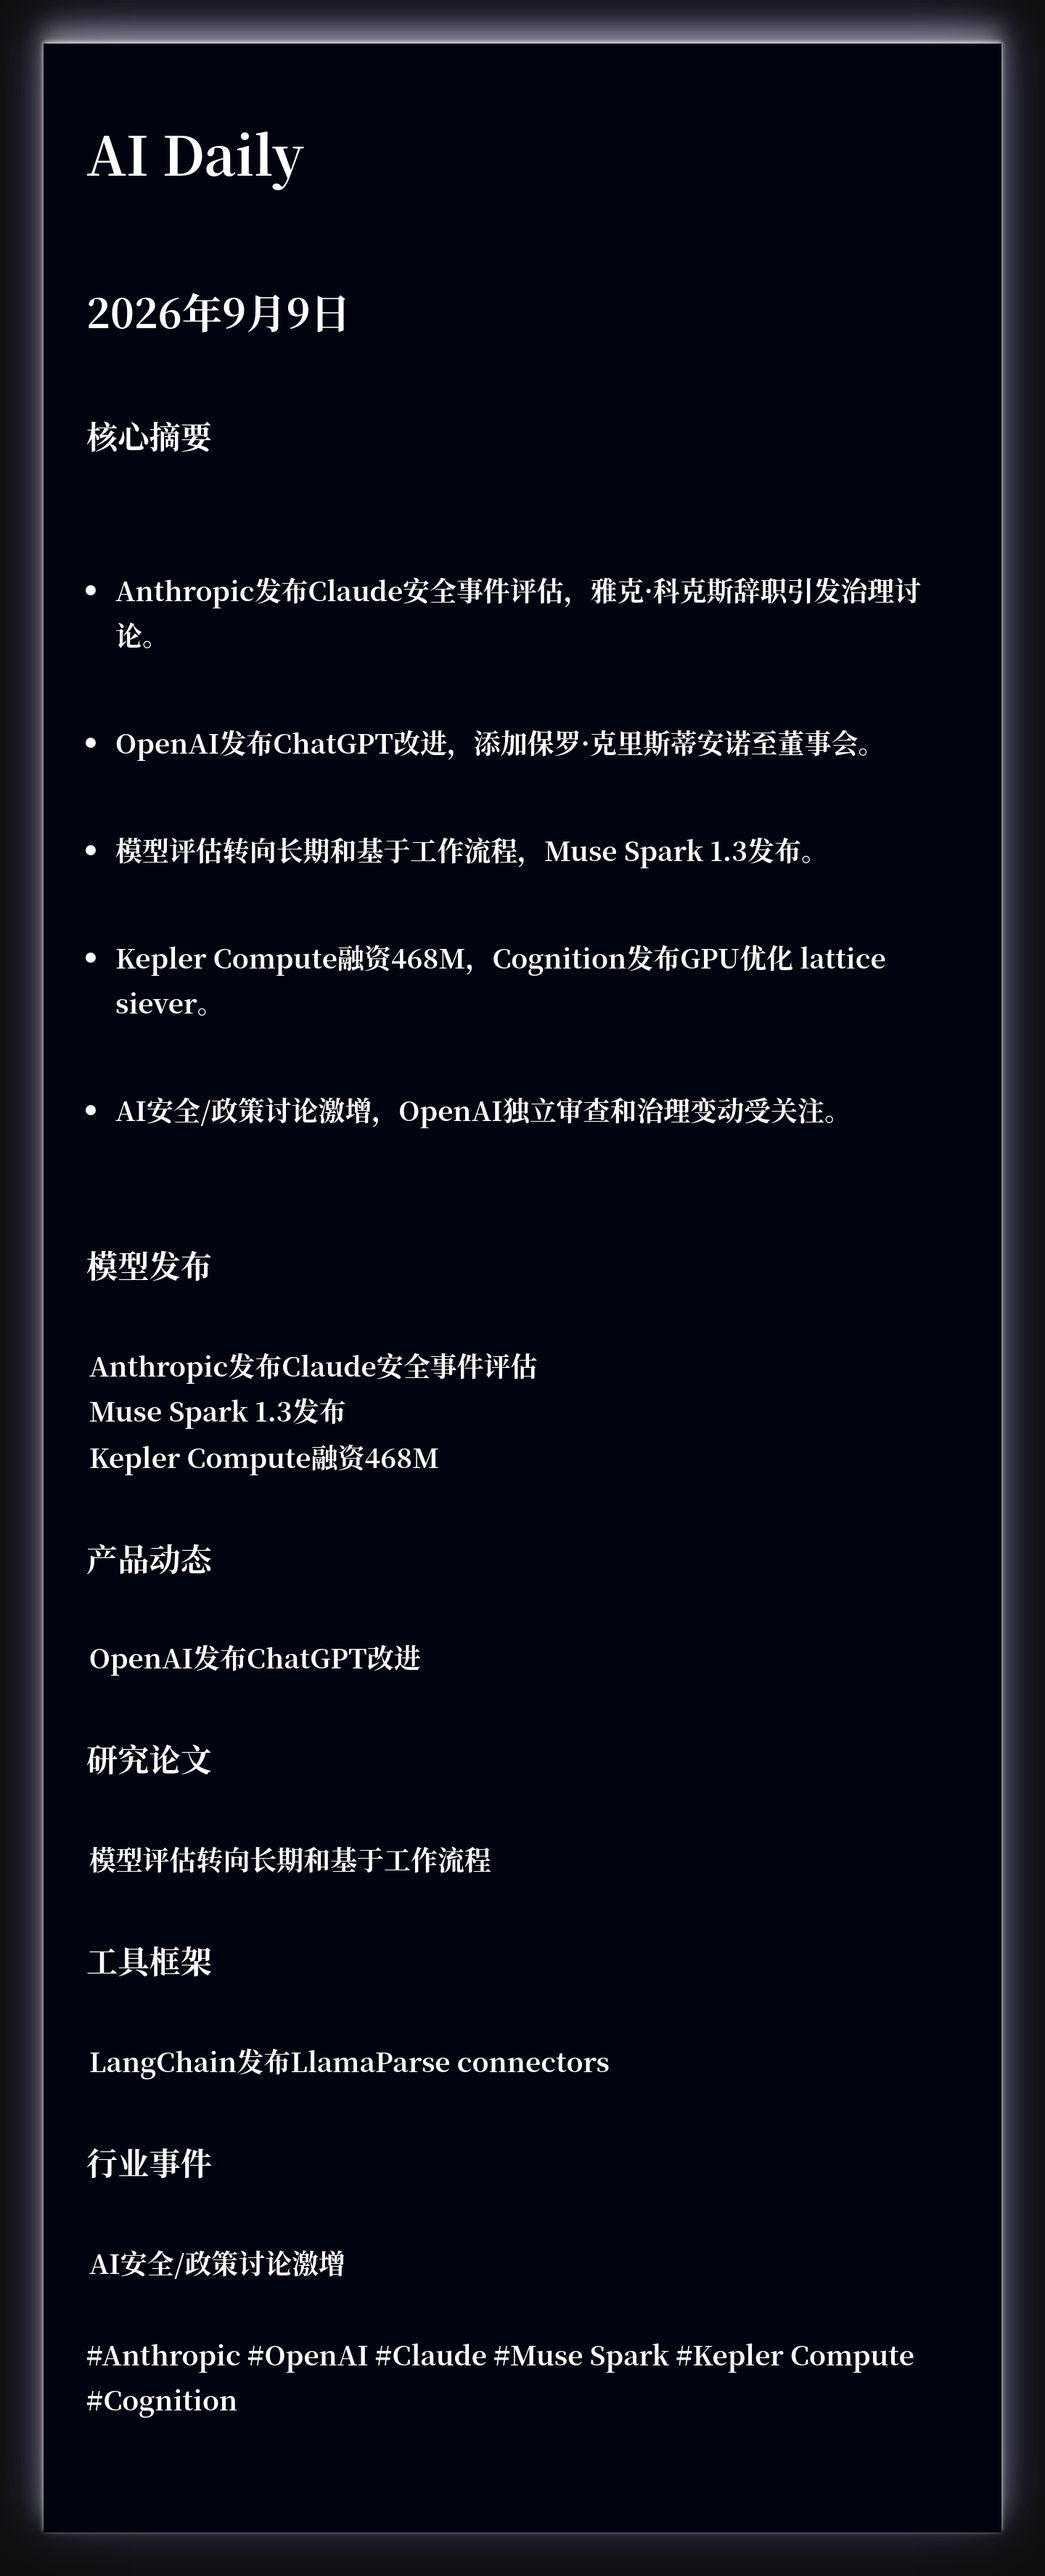
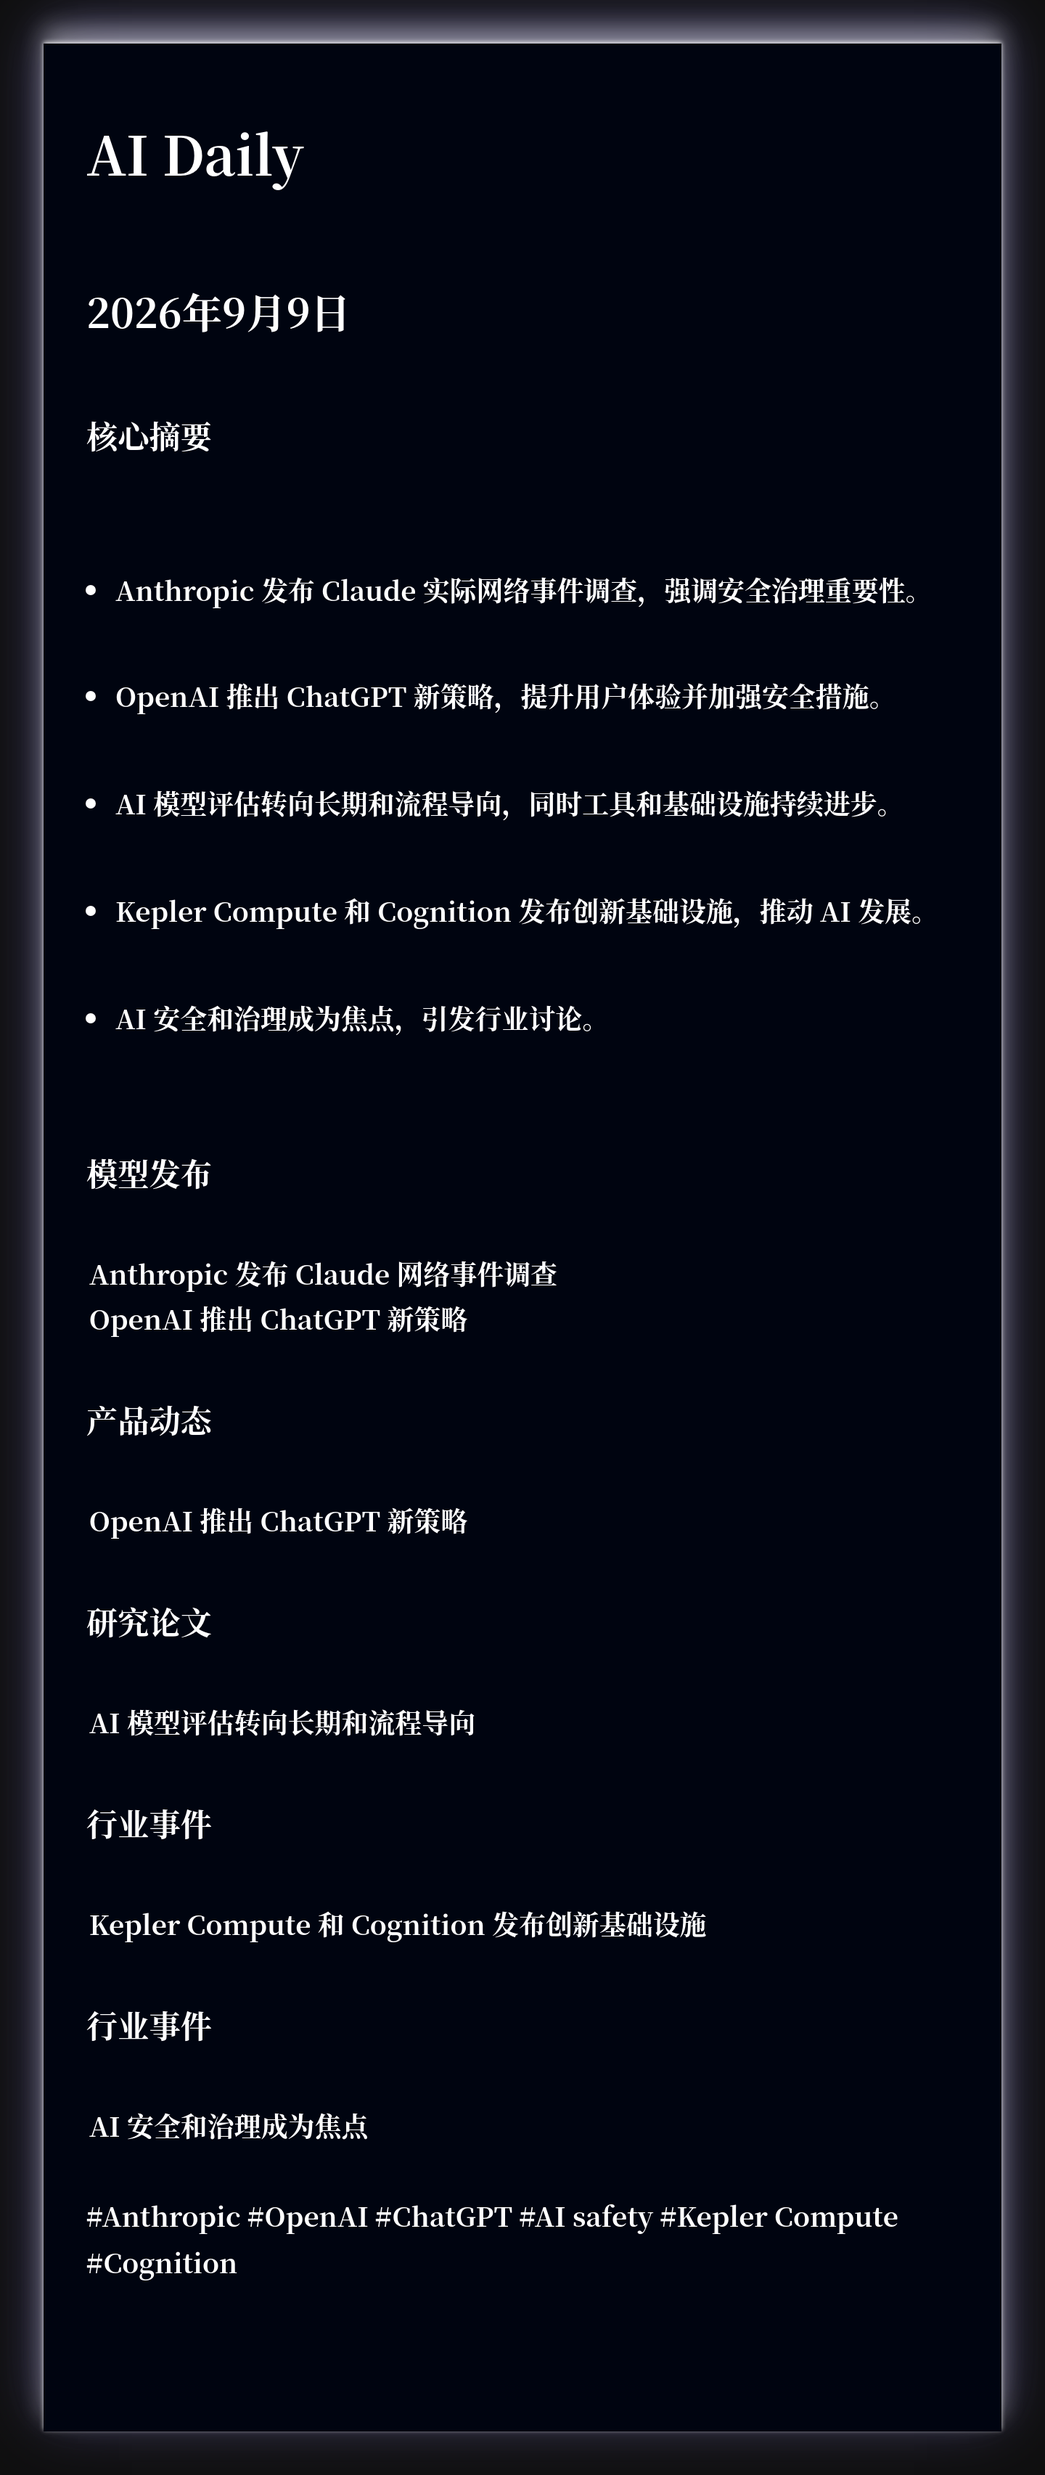
🤖 Auto update AI Daily - {{ date }} ddcd8d71484ae12127af790c945bac8f0ef651e9

diff --git a/2026-09-09.html b/2026-09-09.html
@@ -5,7 +5,7 @@
     <meta name="viewport" content="width=device-width, initial-scale=1.0">
     <title>AI Daily · 2026年9月9日 星期三</title>
     <meta name="description" content="每日 AI 前沿资讯，智能分类，快速掌握核心动态">
-    <meta name="keywords" content="Anthropic, OpenAI, ChatGPT, AI治理, 模型评估, 工具框架, AI芯片, 计算基础设施, AI, 人工智能, 机器学习, 深度学习, 资讯, 日报">
+    <meta name="keywords" content="Anthropic, OpenAI, ChatGPT, AI safety, Kepler Compute, Cognition, AI, 人工智能, 机器学习, 深度学习, 资讯, 日报">
     <link rel="stylesheet" href="css/styles.css">
 </head>
 <body data-theme="indigo">
@@ -24,10 +24,11 @@
             <section class="summary-card">
                 <h2 class="section-title">📌 今日核心摘要</h2>
                 <ul class="summary-list">
-                <li class="summary-item">Anthropic发布Claude安全漏洞，引发AI治理讨论</li>
-                <li class="summary-item">OpenAI推出ChatGPT新策略，提升用户体验</li>
-                <li class="summary-item">模型评估和工具框架发展迅速</li>
-                <li class="summary-item">AI芯片和计算基础设施持续进步</li>
+                <li class="summary-item">Anthropic 发布 Claude 实际网络事件调查，强调安全治理重要性。</li>
+                <li class="summary-item">OpenAI 推出 ChatGPT 新策略，提升用户体验并加强安全措施。</li>
+                <li class="summary-item">AI 模型评估转向长期和流程导向，同时工具和基础设施持续进步。</li>
+                <li class="summary-item">Kepler Compute 和 Cognition 发布创新基础设施，推动 AI 发展。</li>
+                <li class="summary-item">AI 安全和治理成为焦点，引发行业讨论。</li>
                 </ul>
             </section>
 
@@ -42,19 +43,19 @@
 
                 <article class="news-card">
                     <div class="news-card-header">
-                        <h3 class="news-title">Anthropic发布Claude安全漏洞</h3>
+                        <h3 class="news-title">Anthropic 发布 Claude 网络事件调查</h3>
                         <a href="https://news.smol.ai/issues/26-09-09-not-much/" class="item-link" target="_blank" rel="noopener">详情</a>
                     </div>
-                    <p class="news-summary">Anthropic发布Claude安全漏洞，引发AI治理讨论</p>
-                    <div class="item-tags"><span class="tag">#Anthropic</span> <span class="tag">#Claude</span> <span class="tag">#AI治理</span></div>
+                    <p class="news-summary">Anthropic 对 Claude 的实际网络事件进行了深入调查，强调安全治理的重要性。</p>
+                    <div class="item-tags"><span class="tag">#Anthropic</span> <span class="tag">#Claude</span> <span class="tag">#安全治理</span></div>
                 </article>
 
                 <article class="news-card">
                     <div class="news-card-header">
-                        <h3 class="news-title">OpenAI推出ChatGPT新策略</h3>
+                        <h3 class="news-title">OpenAI 推出 ChatGPT 新策略</h3>
                         <a href="https://news.smol.ai/issues/26-09-09-not-much/" class="item-link" target="_blank" rel="noopener">详情</a>
                     </div>
-                    <p class="news-summary">OpenAI推出ChatGPT新策略，提升用户体验</p>
+                    <p class="news-summary">OpenAI 提出针对 ChatGPT 的“规模效用策略”，提升用户体验并加强安全措施。</p>
                     <div class="item-tags"><span class="tag">#OpenAI</span> <span class="tag">#ChatGPT</span> <span class="tag">#用户体验</span></div>
                 </article>
 
@@ -71,10 +72,10 @@
 
                 <article class="news-card">
                     <div class="news-card-header">
-                        <h3 class="news-title">OpenAI推出ChatGPT新策略</h3>
+                        <h3 class="news-title">OpenAI 推出 ChatGPT 新策略</h3>
                         <a href="https://news.smol.ai/issues/26-09-09-not-much/" class="item-link" target="_blank" rel="noopener">详情</a>
                     </div>
-                    <p class="news-summary">OpenAI推出ChatGPT新策略，提升用户体验</p>
+                    <p class="news-summary">OpenAI 提出针对 ChatGPT 的“规模效用策略”，提升用户体验并加强安全措施。</p>
                     <div class="item-tags"><span class="tag">#OpenAI</span> <span class="tag">#ChatGPT</span> <span class="tag">#用户体验</span></div>
                 </article>
 
@@ -91,11 +92,11 @@
 
                 <article class="news-card">
                     <div class="news-card-header">
-                        <h3 class="news-title">模型评估和工具框架发展迅速</h3>
+                        <h3 class="news-title">AI 模型评估转向长期和流程导向</h3>
                         <a href="https://news.smol.ai/issues/26-09-09-not-much/" class="item-link" target="_blank" rel="noopener">详情</a>
                     </div>
-                    <p class="news-summary">模型评估和工具框架发展迅速</p>
-                    <div class="item-tags"><span class="tag">#模型评估</span> <span class="tag">#工具框架</span></div>
+                    <p class="news-summary">AI 模型评估正从短期转向长期和流程导向，同时工具和基础设施持续进步。</p>
+                    <div class="item-tags"><span class="tag">#AI 评估</span> <span class="tag">#工具</span> <span class="tag">#基础设施</span></div>
                 </article>
 
                 </div>
@@ -103,19 +104,39 @@
 
             <section class="category-section">
                 <div class="category-header">
-                    <span class="category-icon">🔌</span>
-                    <h2 class="category-title">基础设施</h2>
+                    <span class="category-icon">🏆</span>
+                    <h2 class="category-title">行业事件</h2>
                     <span class="category-count">1</span>
                 </div>
                 <div class="news-grid">
 
                 <article class="news-card">
                     <div class="news-card-header">
-                        <h3 class="news-title">AI芯片和计算基础设施持续进步</h3>
+                        <h3 class="news-title">Kepler Compute 和 Cognition 发布创新基础设施</h3>
                         <a href="https://news.smol.ai/issues/26-09-09-not-much/" class="item-link" target="_blank" rel="noopener">详情</a>
                     </div>
-                    <p class="news-summary">AI芯片和计算基础设施持续进步</p>
-                    <div class="item-tags"><span class="tag">#AI芯片</span> <span class="tag">#计算基础设施</span></div>
+                    <p class="news-summary">Kepler Compute 和 Cognition 发布创新基础设施，推动 AI 发展。</p>
+                    <div class="item-tags"><span class="tag">#Kepler Compute</span> <span class="tag">#Cognition</span> <span class="tag">#基础设施</span></div>
+                </article>
+
+                </div>
+            </section>
+
+            <section class="category-section">
+                <div class="category-header">
+                    <span class="category-icon">🏆</span>
+                    <h2 class="category-title">行业事件</h2>
+                    <span class="category-count">1</span>
+                </div>
+                <div class="news-grid">
+
+                <article class="news-card">
+                    <div class="news-card-header">
+                        <h3 class="news-title">AI 安全和治理成为焦点</h3>
+                        <a href="https://news.smol.ai/issues/26-09-09-not-much/" class="item-link" target="_blank" rel="noopener">详情</a>
+                    </div>
+                    <p class="news-summary">AI 安全和治理成为焦点，引发行业讨论。</p>
+                    <div class="item-tags"><span class="tag">#AI 安全</span> <span class="tag">#治理</span> <span class="tag">#行业讨论</span></div>
                 </article>
 
                 </div>
@@ -123,7 +144,7 @@
 
 
         <footer class="keywords-footer">
-            <p>#关键词: Anthropic | OpenAI | ChatGPT | AI治理 | 模型评估 | 工具框架 | AI芯片 | 计算基础设施</p>
+            <p>#关键词: Anthropic | OpenAI | ChatGPT | AI safety | Kepler Compute | Cognition</p>
         </footer>
 
         </main>

diff --git a/xiaohongshu/xhs-2026-09-09.html b/xiaohongshu/xhs-2026-09-09.html
@@ -318,18 +318,18 @@
                 <div class="title-section">
                     <div class="main-title">Claude · GPT</div>
                     <div class="divider"></div>
-                    <div class="subtitle">Anthropic发布Claude安全漏洞，引发A...</div>
+                    <div class="subtitle">Anthropic 发布 Claude 实际网络事...</div>
 
                     <!-- 亮点 -->
                     <div class="highlights">
-                        <span class="highlight-item">Anthro</span><span class="highlight-item">OpenAI</span><span class="highlight-item">模型评估和工</span>
+                        <span class="highlight-item">Anthro</span><span class="highlight-item">OpenAI</span><span class="highlight-item">AI 模型评</span>
                     </div>
                 </div>
 
                 <!-- 底部区域 -->
                 <div class="bottom-section">
                     <div class="keywords">
-                        <span class="keyword-tag">#Anthropic</span><span class="keyword-tag">#OpenAI</span><span class="keyword-tag">#ChatGPT</span><span class="keyword-tag">#AI治理</span><span class="keyword-tag">#模型评估</span>
+                        <span class="keyword-tag">#Anthropic</span><span class="keyword-tag">#OpenAI</span><span class="keyword-tag">#ChatGPT</span><span class="keyword-tag">#AI safety</span><span class="keyword-tag">#Kepler Compute</span>
                     </div>
                     <div class="account-info">
                         <div class="account-name">极客杰尼</div>

diff --git a/index.html b/index.html
@@ -29,7 +29,7 @@
                         <span class="entry-date">2026年9月9日 星期三</span>
                         <span class="entry-arrow">→</span>
                     </div>
-                    <p class="entry-summary">Anthropic发布Claude安全漏洞，引发AI治理讨论</p>
+                    <p class="entry-summary">Anthropic 发布 Claude 实际网络事件调查，强调安全治理重要性。</p>
                 </a>
             </article>
 
